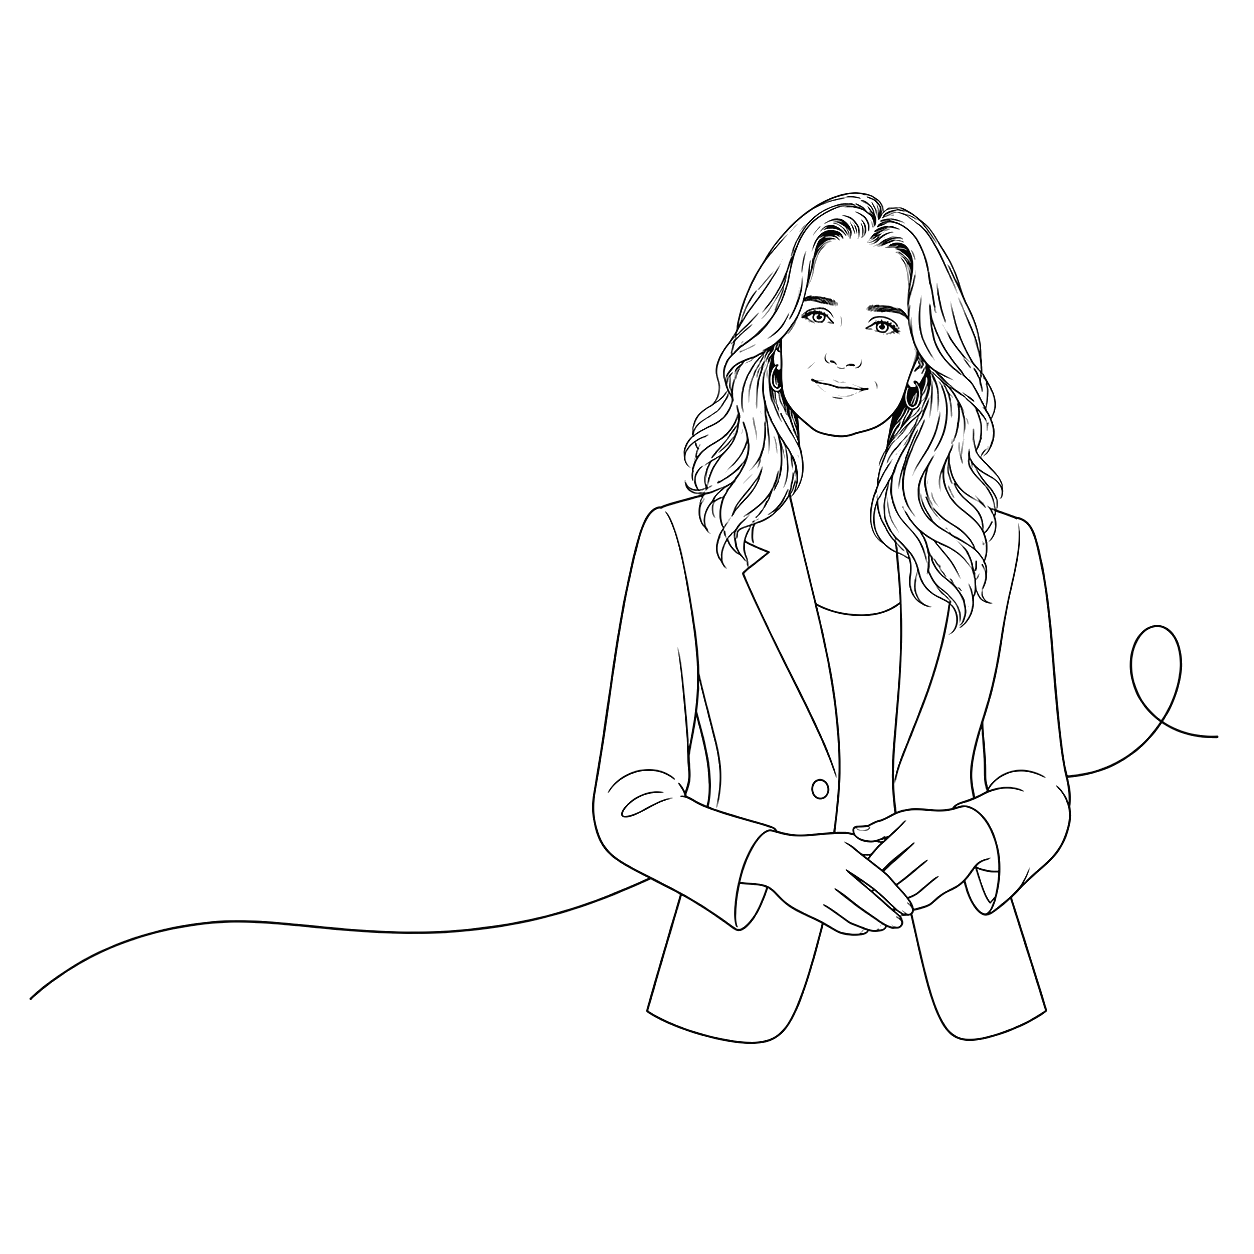
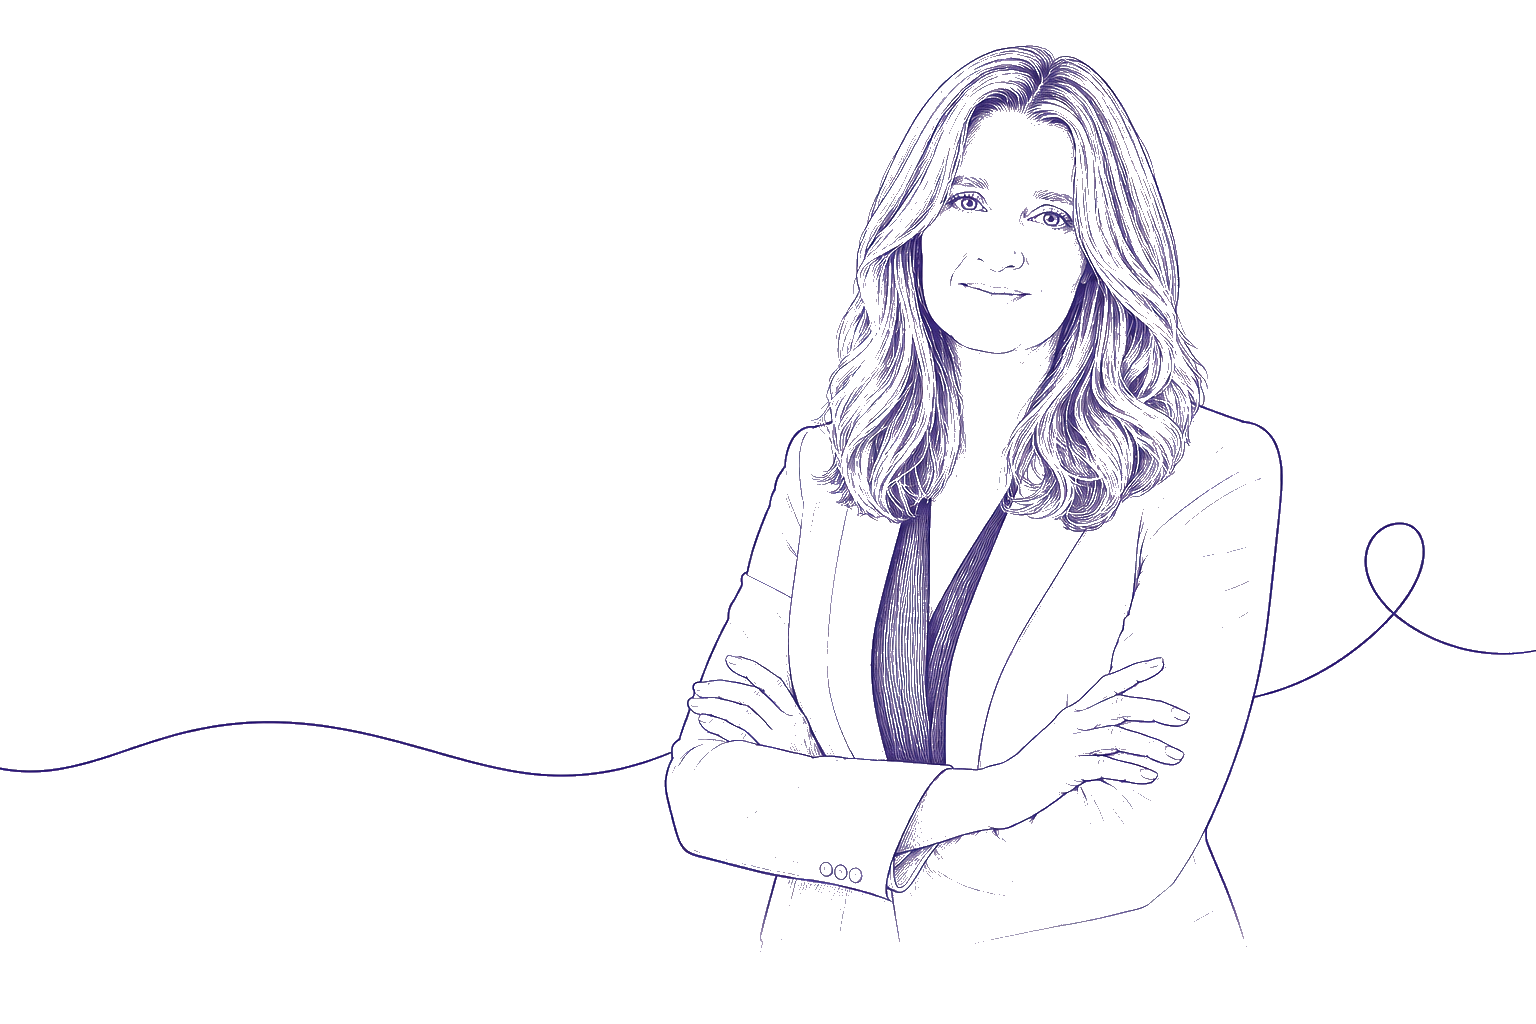
Lock hero portrait layout with gap-aligned line art positioning.

diff --git a/src/components/Hero.jsx b/src/components/Hero.jsx
@@ -1,26 +1,113 @@
+import { useCallback, useLayoutEffect, useRef } from 'react'
+import { HERO_PORTRAIT_LOCK as lock } from '../hero-portrait.lock.js'
+
+function paintedSize(img) {
+  const boxW = img.clientWidth
+  const boxH = img.clientHeight
+  const imageAspect = img.naturalWidth / img.naturalHeight
+  const boxAspect = boxW / boxH
+
+  if (imageAspect > boxAspect) {
+    const width = boxW
+    return { width, height: width / imageAspect }
+  }
+
+  const height = boxH
+  return { width: height * imageAspect, height }
+}
+
 export default function Hero({ content }) {
+  const containerRef = useRef(null)
+  const gapRef = useRef(null)
+  const headlineRef = useRef(null)
+  const wrapRef = useRef(null)
+  const imgRef = useRef(null)
+
+  const alignPortrait = useCallback(() => {
+    const container = containerRef.current
+    const gap = gapRef.current
+    const headline = headlineRef.current
+    const wrap = wrapRef.current
+    const img = imgRef.current
+
+    if (!container || !gap || !wrap || !img) return
+
+    if (window.matchMedia('(max-width: 900px)').matches) {
+      wrap.style.top = ''
+      img.style.transform = ''
+      return
+    }
+
+    if (!img.complete || !img.naturalWidth) return
+
+    const containerTop = container.getBoundingClientRect().top
+    const gapRect = gap.getBoundingClientRect()
+    const gapTarget = gapRect.top - containerTop + lock.gapOffsetPx
+
+    const { height: paintedHeight, width: paintedWidth } = paintedSize(img)
+    const lineFromTop = paintedHeight * lock.lineYRatio * lock.scale
+
+    wrap.style.top = `${Math.max(0, gapTarget - lineFromTop)}px`
+
+    let nudgePx = 0
+    if (headline) {
+      const wrapRect = wrap.getBoundingClientRect()
+      const figureLeft =
+        wrapRect.right - paintedWidth * lock.scale + paintedWidth * lock.scale * lock.figureXRatio
+      const needed =
+        headline.getBoundingClientRect().right + lock.headlineClearancePx - figureLeft
+      nudgePx = Math.max(0, Math.min(needed, lock.maxHeadlineNudgePx))
+    }
+
+    img.style.transformOrigin = 'top right'
+    img.style.transform =
+      nudgePx > 0
+        ? `translateX(calc(${lock.translateX} + ${nudgePx}px)) scale(${lock.scale})`
+        : `translateX(${lock.translateX}) scale(${lock.scale})`
+  }, [])
+
+  useLayoutEffect(() => {
+    alignPortrait()
+
+    const container = containerRef.current
+    if (!container) return undefined
+
+    const observer = new ResizeObserver(alignPortrait)
+    observer.observe(container)
+
+    window.addEventListener('resize', alignPortrait)
+
+    return () => {
+      observer.disconnect()
+      window.removeEventListener('resize', alignPortrait)
+    }
+  }, [alignPortrait])
+
   return (
     <section className="hero" id="top">
-      <div className="hero__image-wrap" aria-hidden="true">
-        <img
-          src="/images/keri-hero-line-art.png"
-          alt=""
-          className="hero__image"
-        />
-      </div>
-      <div className="container">
+      <div className="container" ref={containerRef}>
+        <div className="hero__image-wrap" ref={wrapRef} aria-hidden="true">
+          <img
+            ref={imgRef}
+            src={lock.imageSrc}
+            alt=""
+            className="hero__image"
+            onLoad={alignPortrait}
+          />
+        </div>
         <div className="hero__inner">
           <div className="hero__content">
             <div className="hero__eyebrow-wrap">
               <span className="hero__eyebrow-rule" aria-hidden="true" />
               <span className="hero__eyebrow">{content.eyebrow}</span>
             </div>
-            <h1 className="hero__headline">
+            <h1 className="hero__headline" ref={headlineRef}>
               {content.headline.split('\n').map((line, i, arr) => (
                 <span key={i}>{line}{i < arr.length - 1 && <br />}</span>
               ))}
             </h1>
             <p className="hero__sub">{content.sub}</p>
+            <div className="hero__line-gap" ref={gapRef} aria-hidden="true" />
             {content.credentials && (
               <p className="hero__credentials">{content.credentials}</p>
             )}

diff --git a/src/styles/global.css b/src/styles/global.css
@@ -296,22 +296,41 @@ ul, ol   { list-style: none; }
   overflow: hidden;
 }
 
+/* Hero portrait positioning — LOCKED (sync with src/hero-portrait.lock.js) */
+:root {
+  --hero-portrait-wrap-left: 51ch;
+  --hero-portrait-wrap-right: -1rem;
+  --hero-portrait-wrap-top: 9.5rem;
+  --hero-portrait-translate-x: -7%;
+  --hero-portrait-scale: 1.2;
+  --hero-portrait-size: 155%;
+  --hero-portrait-line-gap: 2.75rem;
+}
+
+.hero .container {
+  position: relative;
+}
+
 .hero__image-wrap {
   position: absolute;
-  right: 13%;
-  top: 15%;
-  width: 50%;
-  height: 100%;
+  left: var(--hero-portrait-wrap-left);
+  right: var(--hero-portrait-wrap-right);
+  top: var(--hero-portrait-wrap-top);
+  height: calc(100% - 4rem);
   pointer-events: none;
+  z-index: 0;
+  overflow: visible;
 }
 
 .hero__image {
   display: block;
-  width: 100%;
-  height: 100%;
+  width: var(--hero-portrait-size);
+  height: var(--hero-portrait-size);
   object-fit: contain;
   object-position: top right;
   mix-blend-mode: multiply;
+  transform-origin: top right;
+  transform: translateX(var(--hero-portrait-translate-x)) scale(var(--hero-portrait-scale));
 }
 
 .hero__inner {
@@ -319,6 +338,7 @@ ul, ol   { list-style: none; }
   display: flex;
   align-items: center;
   min-height: 80vh;
+  z-index: 1;
 }
 
 .hero__content {
@@ -366,7 +386,11 @@ ul, ol   { list-style: none; }
   color: var(--color-ink-muted);
   line-height: 1.75;
   max-width: 46ch;
-  margin-bottom: 1.5rem;
+  margin-bottom: 0;
+}
+
+.hero__line-gap {
+  height: var(--hero-portrait-line-gap);
 }
 
 .hero__credentials {
@@ -401,12 +425,25 @@ ul, ol   { list-style: none; }
 
 @media (max-width: 900px) {
   .hero__image-wrap {
+    left: auto;
     right: -5%;
     top: 0;
     width: 80%;
     height: 100%;
     opacity: 0.22;
+    overflow: hidden;
   }
+
+  .hero__line-gap {
+    height: 0;
+  }
+
+  .hero__image {
+    width: 100%;
+    height: 100%;
+    transform: none;
+  }
+
   .hero__content { max-width: none; padding-block: clamp(56px, 10vw, 80px); }
   .hero__inner   { min-height: auto; }
 }

diff --git a/src/hero-portrait.lock.js b/src/hero-portrait.lock.js
@@ -1,0 +1,32 @@
+/**
+ * LOCKED — Hero portrait layout (approved 2026-06-30)
+ *
+ * Do not edit these values unless the site owner explicitly asks to reposition
+ * the hero illustration. Vertical placement is computed in Hero.jsx from
+ * `.hero__line-gap` so the artwork’s waist line sits between the two body
+ * paragraphs. Horizontal placement uses the values below.
+ *
+ * @see .cursor/rules/hero-portrait.mdc
+ */
+export const HERO_PORTRAIT_LOCK = Object.freeze({
+  version: 1,
+  imageSrc: '/images/keri-hero-line-art.png',
+
+  // PNG waist-line row (1536×1024)
+  lineYRatio: 722 / 1024,
+  gapOffsetPx: -14,
+
+  scale: 1.2,
+  translateX: '-7%',
+  sizePercent: 155,
+
+  wrapLeft: '51ch',
+  wrapRight: '-1rem',
+  wrapTopFallback: '9.5rem',
+
+  figureXRatio: 0.32,
+  headlineClearancePx: 12,
+  maxHeadlineNudgePx: 48,
+
+  lineGapHeight: '2.75rem',
+})